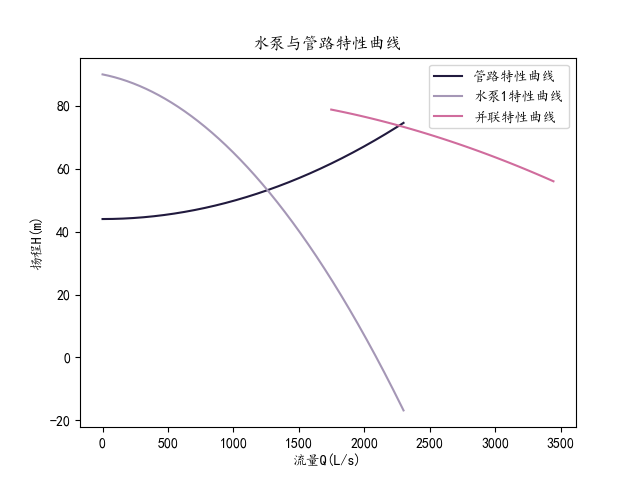
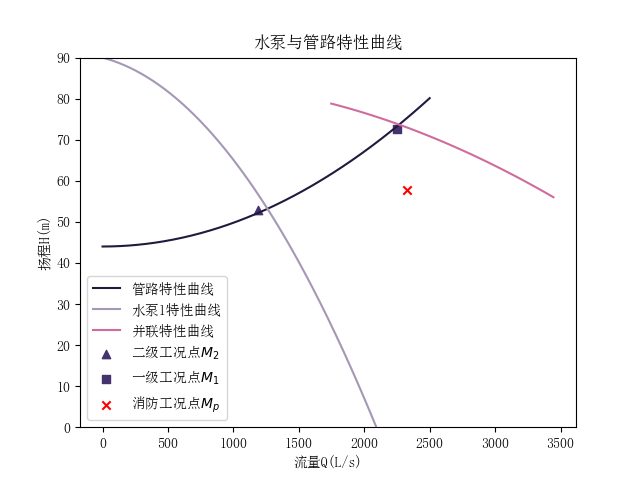
2.00

diff --git a/draw.py b/draw.py
@@ -8,7 +8,7 @@ data = pd.read_csv('pumps.csv')
 a, b, c, q, h = symbols('a b c q h')
 
 # 设置中文显示
-plt.rcParams['font.sans-serif'] = ['KaiTi']
+plt.rcParams['font.sans-serif'] = ['SimSun']
 plt.rcParams['axes.unicode_minus'] = False
 
 # 配色
@@ -30,11 +30,11 @@ for index, rowa in data.iterrows():
                  Eq(a * q3b ** 2 + b * q3b + c, h3b)]
         solutions = solve(equations, (a, b, c))
         ab, bb, cb = solutions[a], solutions[b], solutions[c]
-        q_cur1 = np.linspace(0, 2300, 1000)
+        q_cur1 = np.linspace(0, 2500, 1000)
         h_cur_t = 44 + 5.78e-6 * q_cur1 ** 2
         h_cur_1 = aa * q_cur1 ** 2 + ba * q_cur1 + ca
-        plt.plot(q_cur1, h_cur_t, label = "管路特性曲线", color = col[0])
-        plt.plot(q_cur1, h_cur_1, label = "水泵1特性曲线", color = col[2])
+        plt.plot(q_cur1, h_cur_t, label = r"管路特性曲线", color = col[0])
+        plt.plot(q_cur1, h_cur_1, label = r"水泵1特性曲线", color = col[2])
         h_min = max(aa * q3a ** 2 + ba * q3a + ca, ab * q3b ** 2 + bb * q3b + cb)
         h_max = min(aa * q1a ** 2 + ba * q1a + ca, ab * q1b ** 2 + bb * q1b + cb)
         h_cur_ab = np.arange(h_min, h_max, 0.2)
@@ -42,7 +42,11 @@ for index, rowa in data.iterrows():
         plt.plot(q_cur_ab, h_cur_ab, label = "并联特性曲线", color = col[4])
 
 # 设置图表标题和坐标轴标签
+plt.scatter([1191.2], [53.0], label = r'二级工况点$M_2$', color = col[1], marker = '^')
+plt.scatter([2248.9], [72.7], label = r'一级工况点$M_1$', color = col[1], marker = 's')
+plt.scatter([2323.9], [57.7], label = r'消防工况点$M_p$', color = 'red', marker = 'x')
 plt.title('水泵与管路特性曲线')
+plt.ylim(0, 90)
 plt.xlabel('流量Q(L/s)')
 plt.ylabel('扬程H(m)')
 

diff --git a/Essay.md b/Essay.md
@@ -40,7 +40,7 @@ $$
 \begin{aligned}
  H_{ST} &= 8 + 36 = 44(m) \\
     S &= \frac{\sum h + \sum h_{in}}{Q^2} \\
-    &= \frac{27.2 + 2}{2.2489 ^ 2} \\
+    &= \frac{27.2 + 1.5}{2.2489 ^ 2} \\
     &= 5.78 (s^2 / m^5) \\
     \therefore H &= 44 + 5.78 Q^2
 \end{aligned}
@@ -63,7 +63,7 @@ $$
 
 绘制图像如下
 
-![Alt text](figure_f.png)
+![Alt text](figure.png)
 
 此时两水泵参数如下
 
